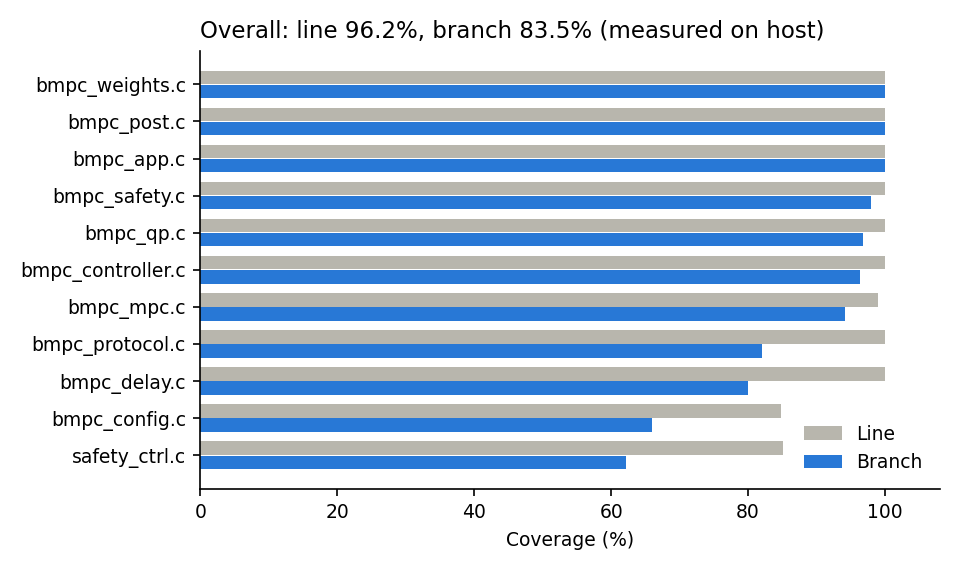
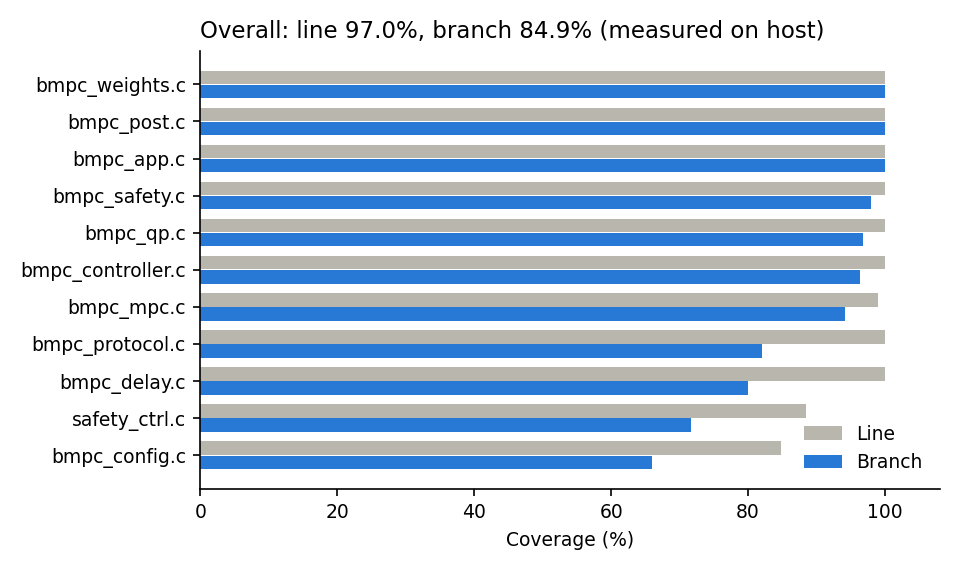
Add requirement-based safety tests and link them to the RTM
test_safety_reqs.c checks blackout, speed loss, bus-off, corrupted frames
and driver brake against the acceptance criteria. Remeasure coverage.

Claude-Session: https://claude.ai/code/session_01Vfu1hzbw59htbh8d1GgBLp

diff --git a/sut/test/test_safety_reqs.c b/sut/test/test_safety_reqs.c
@@ -1,0 +1,124 @@
+/* Requirement-based tests for the safety controller (third_party/kuuve_safety).
+ * Expected behavior comes from docs/acceptance_criteria.md and the TSR comments in
+ * safety_ctrl.h, not from reading the implementation. Times avoid exact boundaries. */
+#include <math.h>
+#include <stdio.h>
+#include <string.h>
+#include "safety_ctrl.h"
+
+static int g_pass, g_fail;
+#define CHECK(c, ...) do { if (c) { g_pass++; } else { g_fail++; printf("  FAIL: "); printf(__VA_ARGS__); printf("\n"); } } while (0)
+
+static void put_i16(uint8_t *p, int v) { p[0] = (uint8_t)(v & 0xFF); p[1] = (uint8_t)((v >> 8) & 0xFF); }
+
+static void ctrl(sc_t *sc, float steer, float accel, uint8_t alive, uint32_t t, int corrupt)
+{
+  uint8_t d[8] = {0};
+  put_i16(&d[0], (int)lroundf(steer * 100.0f)); put_i16(&d[2], (int)lroundf(accel * 100.0f));
+  d[6] = (uint8_t)(alive & 0x0F); d[7] = sc_crc8_e2e(SC_DATA_ID_CTRL_CMD, d, 7u);
+  if (corrupt) d[7] ^= 0x5A;
+  sc_on_ctrl_frame(sc, d, t);
+}
+
+static void esc(sc_t *sc, float kph, uint32_t t, int corrupt)
+{
+  uint8_t d[8] = {0};
+  put_i16(&d[0], (int)lroundf(kph * 100.0f)); d[7] = sc_crc8_e2e(SC_DATA_ID_ESC_SPEED, d, 7u);
+  if (corrupt) d[7] ^= 0x5A;
+  sc_on_esc_frame(sc, d, t);
+}
+
+static void pedal(sc_t *sc, float brake_pct, uint32_t t)
+{
+  uint8_t d[8] = {0};
+  d[1] = (uint8_t)lroundf(brake_pct / 0.4f); d[7] = sc_crc8_e2e(SC_DATA_ID_VCU_PEDAL, d, 7u);
+  sc_on_pedal_frame(sc, d, t);
+}
+
+/* Reach NORMAL with steady commands every 50 ms and speed every 10 ms, as on the bench. */
+static uint32_t start(sc_t *sc, sc_out_t *o, float accel)
+{
+  sc_config_t c; uint32_t t; uint8_t a = 0;
+  sc_default_config(&c); sc_init(sc, &c);
+  for (t = 0; t <= 500u; t += 10u) {
+    if (t % 50u == 0u) ctrl(sc, 0.0f, accel, a++, t, 0);
+    esc(sc, 30.0f, t, 0);
+    sc_step(sc, t, o);
+  }
+  return t;
+}
+
+static void test_tsr03_command_timeout(void)
+{
+  sc_t sc; sc_out_t o; uint32_t t = start(&sc, &o, 0.5f), t0 = t - 10u; uint8_t seen = 0;
+  printf("[TSR-03: command blackout -> SAFE_STOP]\n");
+  CHECK(o.state == SC_STATE_NORMAL, "NORMAL before the fault (%d)", (int)o.state);
+  for (; t <= t0 + 60u; t += 10u) { esc(&sc, 30.0f, t, 0); sc_step(&sc, t, &o); }
+  CHECK(o.state == SC_STATE_NORMAL, "still NORMAL 60 ms after the last command (%d)", (int)o.state);
+  for (; t <= t0 + 290u; t += 10u) { esc(&sc, 30.0f, t, 0); sc_step(&sc, t, &o); seen |= o.flags; }
+  CHECK(o.state == SC_STATE_SAFE_STOP, "SAFE_STOP within 290 ms (%d)", (int)o.state);
+  CHECK(o.accel_mps2 < 0.0f, "SAFE_STOP brakes (%.2f)", (double)o.accel_mps2);
+  CHECK(seen & SC_FLAG_TIMEOUT, "timeout flag raised in the transition cycle");   /* flags are per cycle */
+}
+
+static void test_tsr09_speed_loss(void)
+{
+  sc_t sc; sc_out_t o; uint32_t t = start(&sc, &o, 1.0f), t0 = t - 10u; uint8_t a = 20;
+  printf("[TSR-09: vehicle speed loss -> DEGRADED, no SAFE_STOP]\n");
+  for (; t <= t0 + 290u; t += 10u) { if (t % 50u == 0u) ctrl(&sc, 0.0f, 1.0f, a++, t, 0); sc_step(&sc, t, &o); }
+  CHECK(o.state == SC_STATE_DEGRADED, "DEGRADED within 290 ms (%d)", (int)o.state);
+  CHECK(o.accel_mps2 <= 0.0f, "no acceleration while speed is lost (%.2f)", (double)o.accel_mps2);
+  CHECK(o.flags2 & SC_FLAG2_SPEED_TIMEOUT, "speed timeout flag set");
+  CHECK(!(o.inputs_fresh & SC_IN_SPEED), "speed reported as not fresh");
+}
+
+static void test_tsr08_bus_off(void)
+{
+  sc_t sc; sc_out_t o; uint32_t t = start(&sc, &o, 0.5f);
+  printf("[TSR-08: CAN bus-off -> SAFE_STOP]\n");
+  sc_on_bus_off(&sc); sc_step(&sc, t, &o);
+  CHECK(o.state == SC_STATE_SAFE_STOP, "SAFE_STOP after bus-off (%d)", (int)o.state);
+  CHECK(o.bus_off_seen == 1u, "bus-off reported");
+  CHECK(o.accel_mps2 < 0.0f, "SAFE_STOP brakes (%.2f)", (double)o.accel_mps2);
+}
+
+static void test_tsr07_corrupted_frames(void)
+{
+  sc_t sc; sc_out_t o; uint32_t t = start(&sc, &o, 0.5f), k; uint8_t a = 20; float before;
+  printf("[TSR-07: corrupted frames are dropped, no SAFE_STOP]\n");
+  before = sc.speed_kph;
+  esc(&sc, 90.0f, t, 1); sc_step(&sc, t, &o);
+  CHECK(fabsf(sc.speed_kph - before) < 1e-3f, "corrupted speed ignored (%.2f)", (double)sc.speed_kph);
+  CHECK(o.flags2 & SC_FLAG2_VEH_CRC, "vehicle CRC flag set");
+  ctrl(&sc, 20.0f, 2.0f, a++, t + 10u, 1); sc_step(&sc, t + 10u, &o);
+  CHECK(fabsf(o.steer_deg) < 1.0f, "corrupted command ignored (%.2f deg)", (double)o.steer_deg);
+  CHECK(o.flags & SC_FLAG_CRC_ERR, "command CRC flag set");
+  for (k = 0; k < 30u; ++k) {   /* three corrupted speed frames in every ten, commands keep coming */
+    t += 10u;
+    if (t % 50u == 0u) ctrl(&sc, 0.0f, 0.5f, a++, t, 0);
+    esc(&sc, 30.0f, t, (k % 10u) < 3u);
+    sc_step(&sc, t, &o);
+    CHECK(o.state != SC_STATE_SAFE_STOP, "no SAFE_STOP from dropped frames at %u ms", (unsigned)t);
+  }
+}
+
+static void test_tsr10_driver_brake(void)
+{
+  sc_t sc; sc_out_t o; uint32_t t = start(&sc, &o, 1.0f), k; uint8_t a = 20;
+  printf("[TSR-10: driver brake -> no acceleration, no SAFE_STOP]\n");
+  CHECK(o.accel_mps2 > 0.0f, "accelerating before the brake (%.2f)", (double)o.accel_mps2);
+  for (k = 0; k < 20u; ++k, t += 10u) {
+    if (t % 50u == 0u) ctrl(&sc, 0.0f, 1.0f, a++, t, 0);
+    esc(&sc, 30.0f, t, 0); pedal(&sc, 50.0f, t); sc_step(&sc, t, &o);
+  }
+  CHECK(o.accel_mps2 <= 0.0f, "no acceleration under driver brake (%.2f)", (double)o.accel_mps2);
+  CHECK(o.flags2 & SC_FLAG2_DRIVER_OVERRIDE, "driver override flag set");
+  CHECK(o.state != SC_STATE_SAFE_STOP, "no SAFE_STOP (%d)", (int)o.state);
+}
+
+int main(void)
+{
+  test_tsr03_command_timeout(); test_tsr09_speed_loss(); test_tsr08_bus_off(); test_tsr07_corrupted_frames(); test_tsr10_driver_brake();
+  printf("\n%d passed, %d failed\n", g_pass, g_fail);
+  return g_fail != 0;
+}

diff --git a/verification/runner/make_banners.py b/verification/runner/make_banners.py
@@ -24,7 +24,7 @@ def capstone(path):
     w, h = 12, 4.1; f, a = canvas(w, h); traces(a, w, 1.9, 2.15)
     a.text(.6, 3.3, "Bare-Metal NMPC", color=INK, fontsize=33, fontweight="bold", va="center")
     a.text(.62, 2.65, "Software quality and HILS verification on an NXP S32K312", color=QUIET, fontsize=13.5, va="center")
-    S = [("24.41 ms", "max solve, 50 ms period"), ("468", "HILS and SILS laps recorded"), ("96.2%", "line coverage, host"), ("6", "defects found, 1 open")]
+    S = [("24.41 ms", "max solve, 50 ms period"), ("468", "HILS and SILS laps recorded"), ("97.0%", "line coverage, host"), ("6", "defects found, 1 open")]
     for i, (v, l) in enumerate(S):
         x = .6 + i * 2.8
         a.add_patch(FancyBboxPatch((x, .5), 2.55, 1.35, boxstyle="round,pad=0,rounding_size=.08", fc="#152033", ec=LINE, lw=.8))

diff --git a/docs/traceability.md b/docs/traceability.md
@@ -20,12 +20,12 @@ Data: 468 rows, 397 valid, 78 valid fault-free laps in judged conditions. Summar
 | AC-08 | Ego-related collision messages | 0 | **FAIL** | 78 | 2 | SG-01 | - | **none linked** |
 | AC-09 | Lap completed | all laps | PASS | 78 | 0 | - | - | **none linked** |
 | AC-10 | Max path error, GPS, 20 s after start, tunnel excluded | ≤ 0.80 m | **FAIL** | 70 | 35 | - | - | **none linked** |
-| FLT-blackout | Command blackout reaches SAFE_STOP | SAFE_STOP within 290 ms | PASS | 10 | 0 | TSR-03 | `integ/bmpc_safety.c`<br>`third_party/kuuve_safety/safety_ctrl.c`<br>`third_party/kuuve_safety/safety_ctrl.h` | **none linked** |
-| FLT-veh_loss | Vehicle signal loss reaches DEGRADED or higher | within 290 ms | PASS | 10 | 0 | TSR-09 | `platform/s32k312/main.c`<br>`third_party/kuuve_safety/safety_ctrl.c`<br>`third_party/kuuve_safety/safety_ctrl.h` | **none linked** |
-| FLT-bus_off | Bus-off reaches SAFE_STOP | SAFE_STOP, time not judged | PASS | 13 | 0 | TSR-08 | `bridge/src/bridge_node.cpp`<br>`platform/s32k312/main.c`<br>`third_party/kuuve_safety/safety_ctrl.c`<br>`third_party/kuuve_safety/safety_ctrl.h` | **none linked** |
-| FLT-veh_crc | Corrupted vehicle frames are dropped without SAFE_STOP | no SAFE_STOP | PASS | 10 | 0 | TSR-07 | `third_party/kuuve_safety/safety_ctrl.h` | **none linked** |
+| FLT-blackout | Command blackout reaches SAFE_STOP | SAFE_STOP within 290 ms | PASS | 10 | 0 | TSR-03 | `integ/bmpc_safety.c`<br>`third_party/kuuve_safety/safety_ctrl.c`<br>`third_party/kuuve_safety/safety_ctrl.h` | `test_safety_reqs.c:test_tsr03_command_timeout` |
+| FLT-veh_loss | Vehicle signal loss reaches DEGRADED or higher | within 290 ms | PASS | 10 | 0 | TSR-09 | `platform/s32k312/main.c`<br>`third_party/kuuve_safety/safety_ctrl.c`<br>`third_party/kuuve_safety/safety_ctrl.h` | `test_safety_reqs.c:test_tsr09_speed_loss` |
+| FLT-bus_off | Bus-off reaches SAFE_STOP | SAFE_STOP, time not judged | PASS | 13 | 0 | TSR-08 | `bridge/src/bridge_node.cpp`<br>`platform/s32k312/main.c`<br>`third_party/kuuve_safety/safety_ctrl.c`<br>`third_party/kuuve_safety/safety_ctrl.h` | `test_safety_reqs.c:test_tsr08_bus_off` |
+| FLT-veh_crc | Corrupted vehicle frames are dropped without SAFE_STOP | no SAFE_STOP | PASS | 10 | 0 | TSR-07 | `third_party/kuuve_safety/safety_ctrl.h` | `test_safety_reqs.c:test_tsr07_corrupted_frames` |
 | FLT-req_crc | Corrupted request frames keep the safety state | no SAFE_STOP | PASS | 10 | 0 | - | - | **none linked** |
-| FLT-driver_brake | Driver brake does not cause SAFE_STOP | no SAFE_STOP | **FAIL** | 10 | 1 | TSR-10 | `bridge/src/bridge_node.cpp`<br>`third_party/kuuve_safety/safety_ctrl.c`<br>`third_party/kuuve_safety/safety_ctrl.h` | **none linked** |
+| FLT-driver_brake | Driver brake does not cause SAFE_STOP | no SAFE_STOP | **FAIL** | 10 | 1 | TSR-10 | `bridge/src/bridge_node.cpp`<br>`third_party/kuuve_safety/safety_ctrl.c`<br>`third_party/kuuve_safety/safety_ctrl.h` | `test_safety_reqs.c:test_tsr10_driver_brake` |
 | AC-21 | SILS and HILS mean path error difference | within sum of lap SDs | PASS | 12 | 0 | - | - | **none linked** |
 
 ## Violations (first five each)
@@ -46,7 +46,9 @@ Data: 468 rows, 397 valid, 78 valid fault-free laps in judged conditions. Summar
 
 ## Known gaps
 
-- 16 of 17 requirements have no linked unit test. They are verified by HILS only.
+- 11 of 17 requirements have no linked unit test. They are verified by HILS only.
+- AC-01 to AC-03, AC-05 to AC-10 and AC-21 are closed-loop measurements on the full system. A unit test cannot verify them, so they stay HILS-only.
+- FLT-req_crc concerns the MPC request path in the bridge, which has no unit test.
 - No acceptance criterion exists for stack use or for slowly growing steering errors.
 - Measured solve time is not a WCET bound.
 - AC-20 needs bag files, so it is not recomputed here.

diff --git a/README.md b/README.md
@@ -1,6 +1,6 @@
 <div align="center">
 
-<img src="docs/img/hero.png" alt="Bare-metal NMPC: 24.41 ms max solve, 468 recorded laps, 96.2% line coverage, 6 defects found with 1 open" width="100%">
+<img src="docs/img/hero.png" alt="Bare-metal NMPC: 24.41 ms max solve, 468 recorded laps, 97.0% line coverage, 6 defects found with 1 open" width="100%">
 
 ![C99](https://img.shields.io/badge/C99-00599C?style=flat-square&logo=c&logoColor=white)
 ![NXP S32K312](https://img.shields.io/badge/NXP_S32K312-000000?style=flat-square&logoColor=white)
@@ -22,8 +22,8 @@ A nonlinear MPC runs without an OS on an automotive MCU (NXP S32K312, Cortex-M7,
 
 | Area | Result | Scope |
 |---|---|---|
-| Unit tests | **All 7 test executables pass**, 0 ASan or UBSan errors | Host, 2026-11-07, published code |
-| Coverage | Line **96.2%** (1457/1514), branch **83.5%** (850/1018) | Host, excludes `platform/` and `test/` |
+| Unit tests | **All 8 test executables pass**, 0 ASan or UBSan errors | Host, 2026-11-07, published code |
+| Coverage | Line **97.0%** (1468/1514), branch **84.9%** (864/1018) | Host, excludes `platform/` and `test/` |
 | Mutation | QP comparison **27 → 66/81**, arithmetic **99 → 127/127** | 2026-11-05, not rerun after the later QP fix |
 | Compiler warnings | `-Wall -Wextra`: 0, `-Wconversion -Wshadow`: 2 | Core and safety modules |
 | Real-time | Max solve **24.41 ms**, max round trip **38.88 ms**, 50 ms period | Real board, measured, not a WCET bound |
@@ -39,6 +39,7 @@ A nonlinear MPC runs without an OS on an automotive MCU (NXP S32K312, Cortex-M7,
 | Layer | Method | What it can find |
 |---|---|---|
 | Unit tests | Separate double, float and safety builds | Logic and numerical errors |
+| Requirement-based tests | `test_safety_reqs.c` checks each fault reaction against the acceptance criteria, not the code | Behavior that differs from the requirement |
 | Coverage | gcovr line and branch | Code that never ran |
 | Mutation | Change comparison and arithmetic operators, check that tests fail | Weak tests |
 | Injected defects | 136 hand-written defects in the QP solver | Gaps coverage cannot show |
@@ -66,7 +67,7 @@ sut/run_tests.sh   # unit tests, no board or ROS needed
 sut/quality.sh     # coverage and sanitizers, needs gcovr
 ```
 
-Weak spots are shown as measured: `safety_ctrl.c` has 62.2% branch coverage and `bmpc_config.c` has 65.9%. Data is in `verification/results/coverage_summary.json`.
+Weak spots are shown as measured: `safety_ctrl.c` has 71.6% branch coverage and `bmpc_config.c` has 65.9%. Data is in `verification/results/coverage_summary.json`.
 
 **A measurement mistake was also found.** An early coverage baseline counted only the last test, because rebuilding in one folder overwrote the `.gcno` files. Each test now has its own build folder.
 
